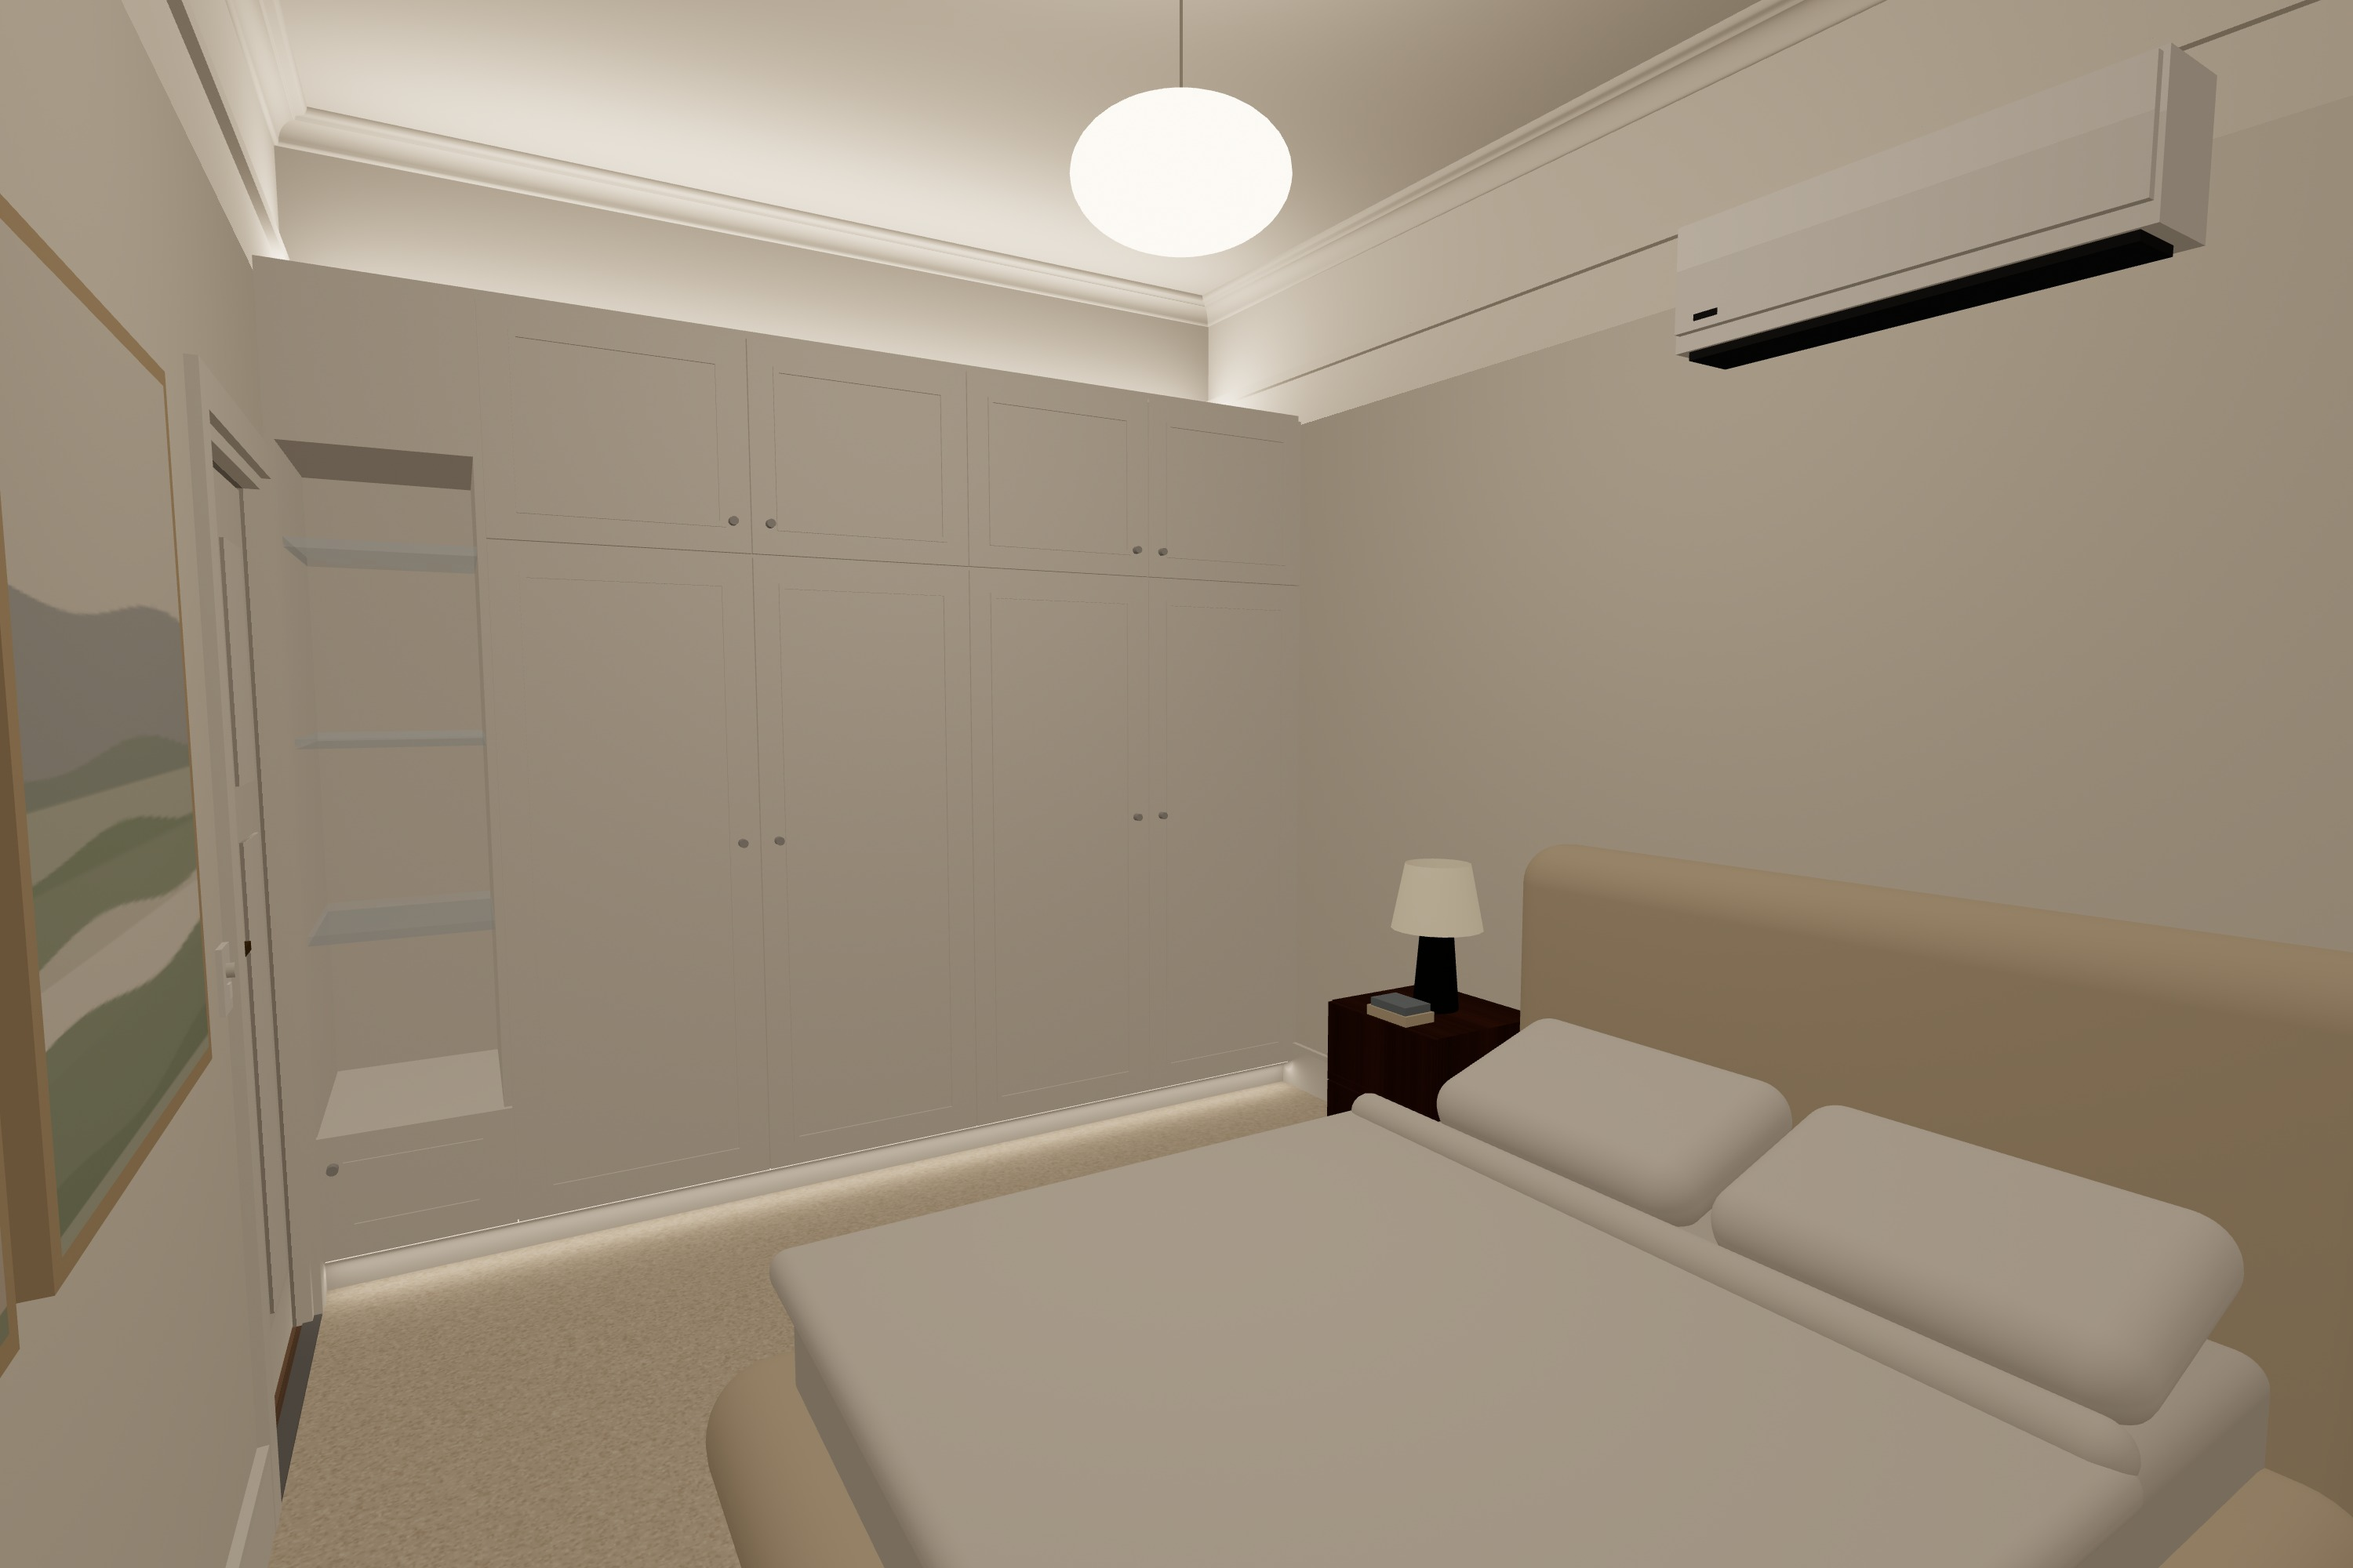
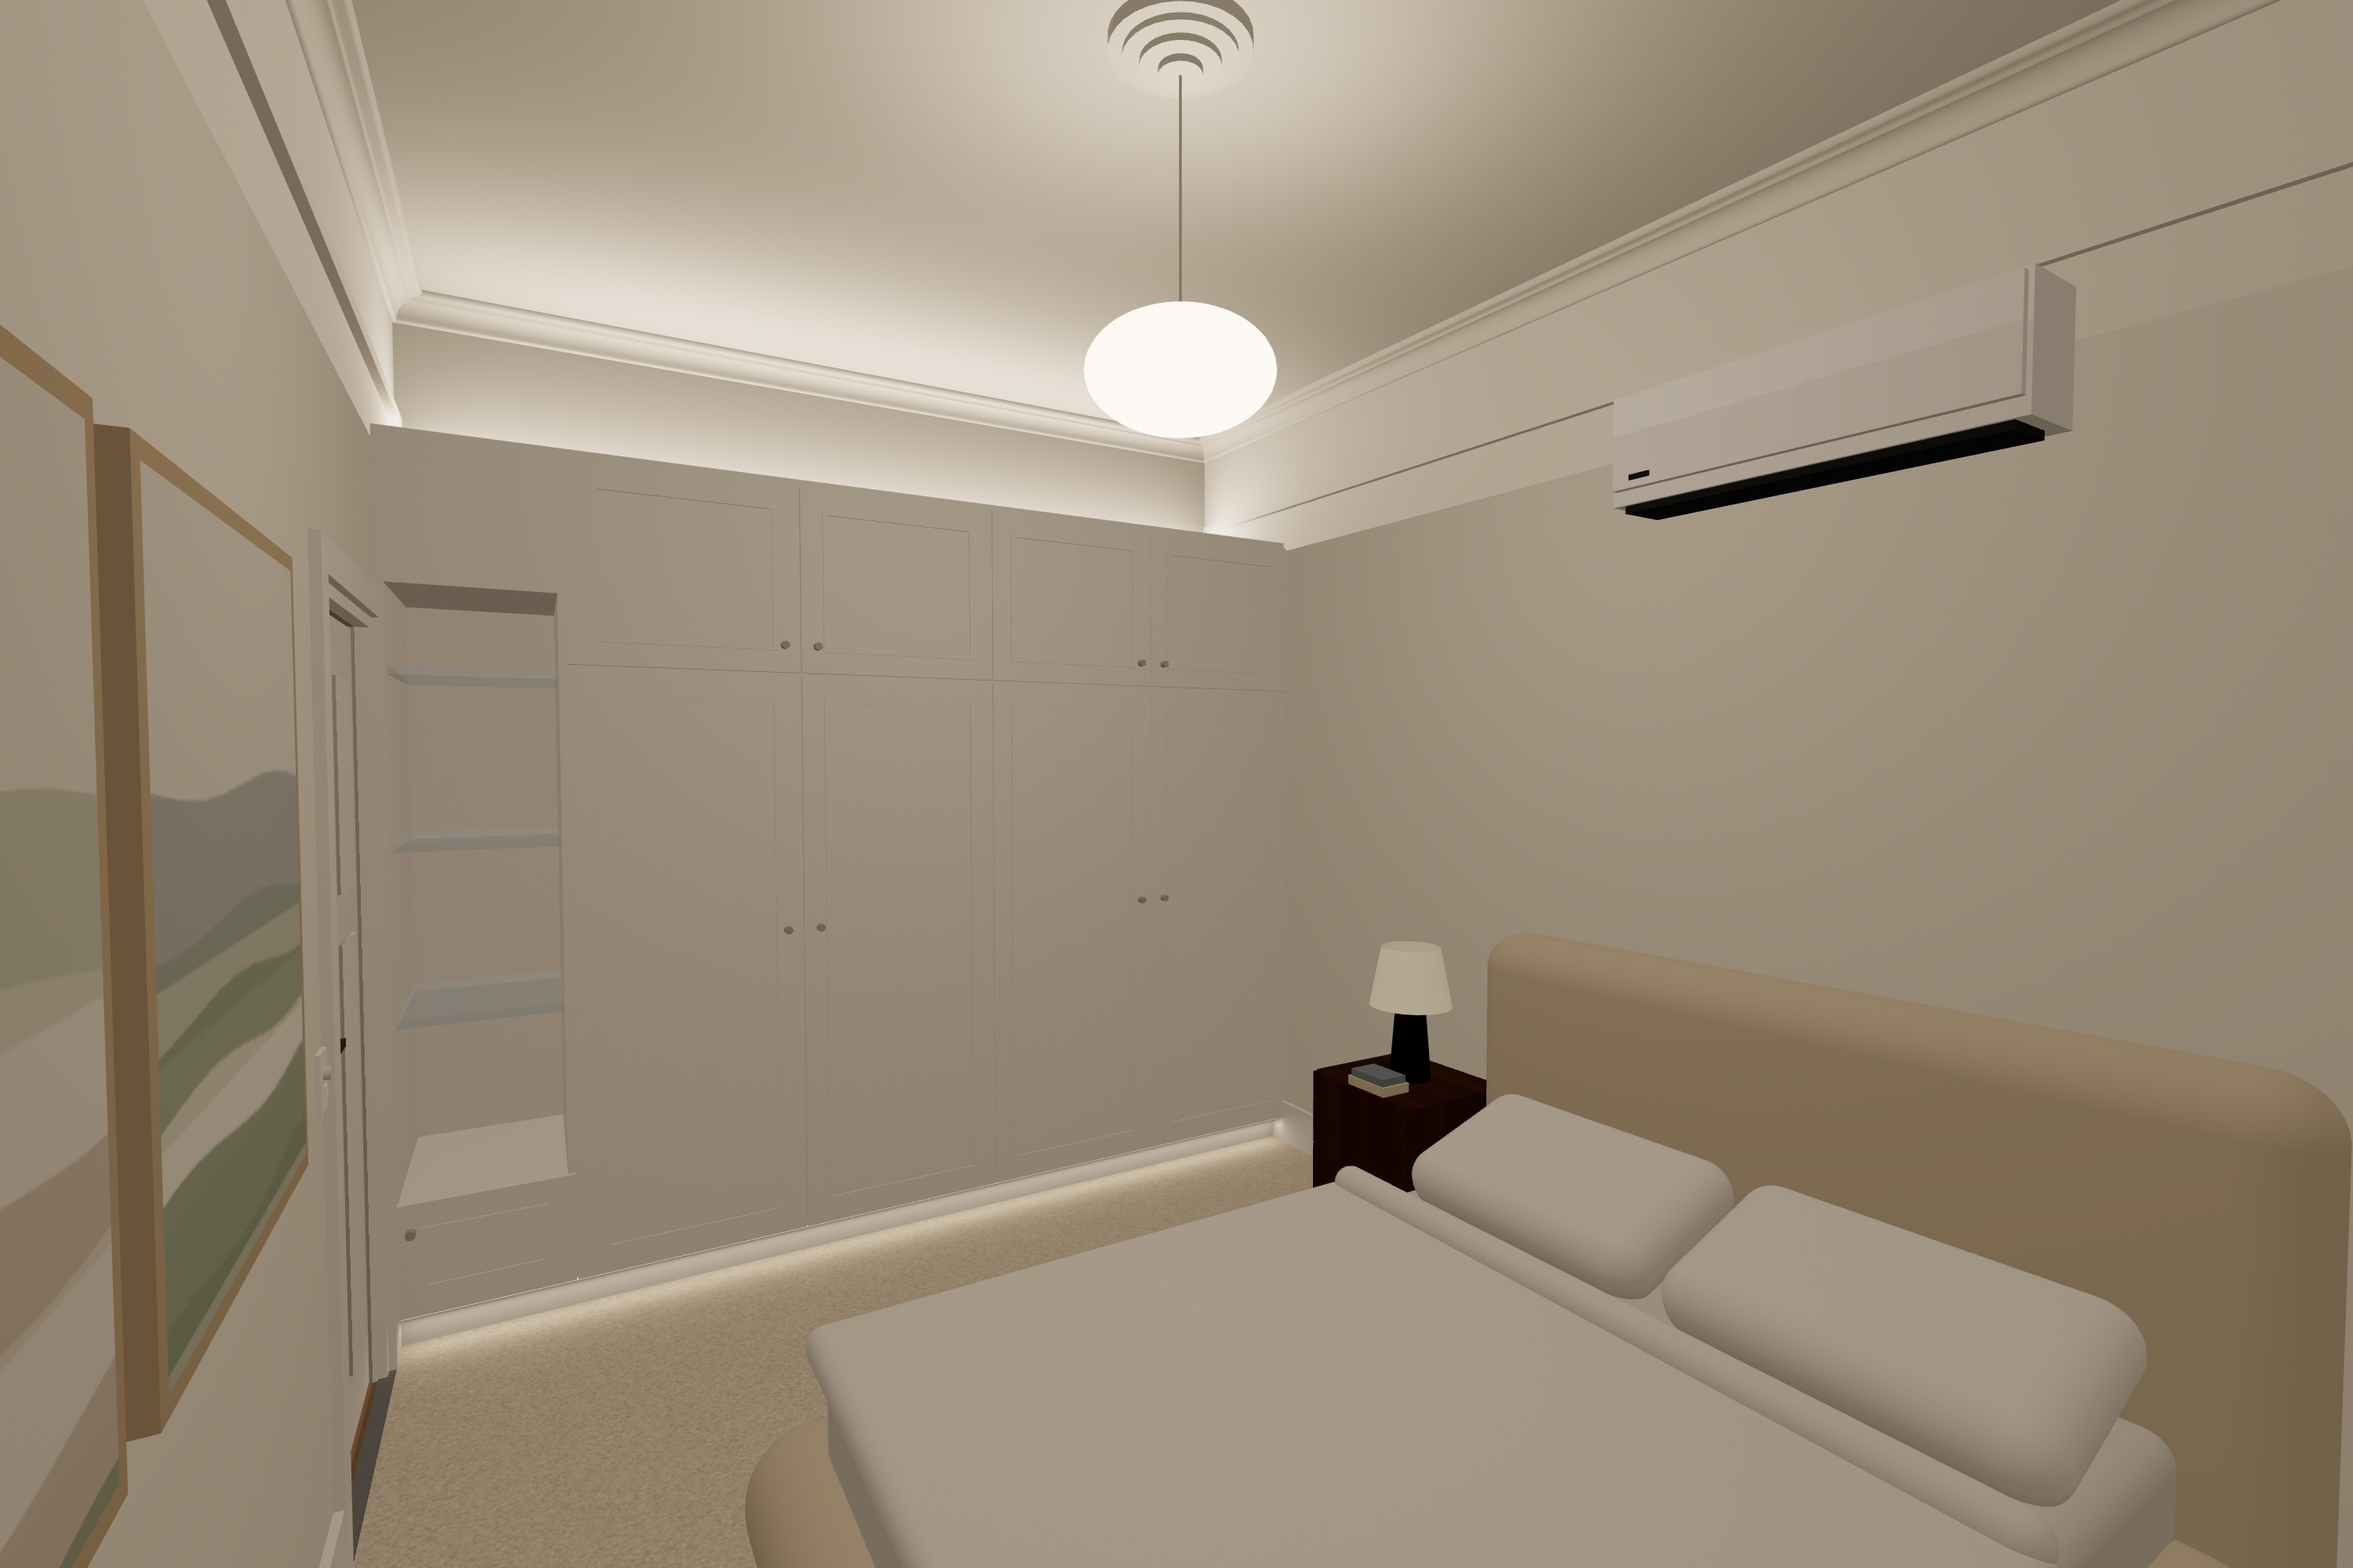
Update model

diff --git a/photos/index.html b/photos/index.html
@@ -35,8 +35,8 @@
       <figcaption><b>From the front door</b>Fisheye lens. The Amalfi cluster overhead, the downlights washing the walls, and the arch framing the kitchen painting.</figcaption></figure>
     <figure><a href="img/hall-painting.jpg"><img src="img/hall-painting.jpg" width="2000" height="2500" loading="lazy" alt="Long-lens view through the hall arch to the painting on the kitchen wall"></a>
       <figcaption><b>Down the hall to the painting</b>Long lens from mid-hall, through the arch to the end-of-vista painting beside the bathroom door.</figcaption></figure>
-    <figure><a href="img/hall-back.jpg"><img src="img/hall-back.jpg" width="2000" height="2500" loading="lazy" alt="From the kitchen looking back up the hall to the front door and the glowing cluster"></a>
-      <figcaption><b>From the kitchen, looking back</b>Fisheye lens. From in front of the painting, back up the hall to the cluster and the front door.</figcaption></figure>
+    <figure><a href="img/hall-back.jpg?v=2"><img src="img/hall-back.jpg?v=2" width="2000" height="2500" loading="lazy" alt="From the kitchen looking back up the hall to the front door and the glowing cluster"></a>
+      <figcaption><b>From the kitchen, looking back</b>Taken low, from in front of the painting, back up the hall to the cluster and the front door.</figcaption></figure>
     <figure><a href="img/amalfi.jpg"><img src="img/amalfi.jpg" width="2000" height="2500" loading="lazy" alt="Close view of the five alabaster pebbles hanging from the ornate entry ceiling rose"></a>
       <figcaption><b>The Amalfi cluster</b>Five alabaster pebbles spiralling from 2.7 down to 2.1 m on the entry's ornate rose.</figcaption></figure>
   </div>
@@ -44,8 +44,8 @@
   <h2>Front bedroom</h2>
   <p class="sub">August oval pendant on the rose, LED strip on top of the robe washing the cornice, a strip under the robe, and bedside lamps.</p>
   <div class="grid wide">
-    <figure><a href="img/front-bed.jpg"><img src="img/front-bed.jpg" width="3000" height="2000" loading="lazy" alt="Front bedroom at night from the bay, robe-top light washing the cornice, bed and lamp"></a>
-      <figcaption><b>From the bay</b>The robe-top strip lights the cornice, with a soft glow under the robe.</figcaption></figure>
+    <figure><a href="img/front-bed.jpg?v=2"><img src="img/front-bed.jpg?v=2" width="3000" height="2000" loading="lazy" alt="Front bedroom at night from the bay, robe-top light washing the cornice, bed and lamp"></a>
+      <figcaption><b>From the bay</b>The pendant on its rose, the robe-top strip lighting the cornice, with a soft glow under the robe.</figcaption></figure>
     <figure><a href="img/front-bed-2.jpg"><img src="img/front-bed-2.jpg" width="3000" height="2000" loading="lazy" alt="Front bedroom from the robe looking to the bay window seat, art on the right"></a>
       <figcaption><b>Towards the bay</b>From the robe, past the bed to the bay window seat.</figcaption></figure>
   </div>
